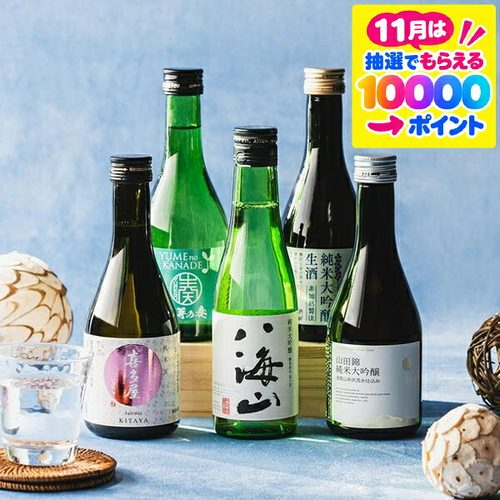
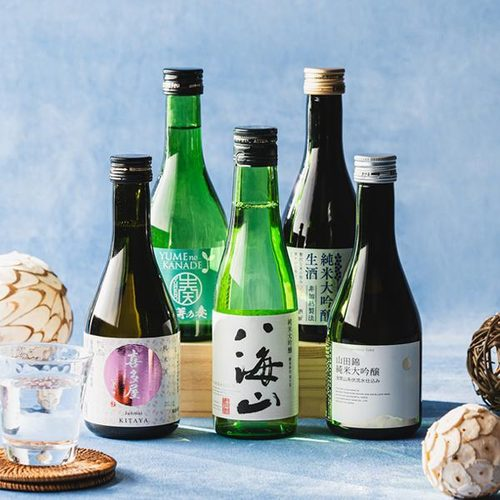
Use Dream Craft product photos (no point-campaign sticker) for original gifts
Claude-Session: https://claude.ai/code/session_01EdNj8GsPrPPmfHWohRCZyL

Changed region(s): [[0.69, 0.0, 1.0, 0.3]]

diff --git a/oseibo-2026/index.html b/oseibo-2026/index.html
@@ -798,6 +798,7 @@ header{background:#0f3b2a;border-bottom-color:#d3ab5840}
 .original .filters button:not([aria-pressed=true]){background:#fff}
 .original .grid{grid-template-columns:repeat(3,1fr);gap:20px}
 .original .product{box-shadow:0 10px 26px #00000024}
+.original .product .ph.photo{aspect-ratio:1/1}
 .original .product .ph.photo img{object-fit:cover}
 .original .stocknote{text-align:center}
 .tag.mk.orig{background:#b3121b;border-color:#b3121b}

diff --git a/oseibo-2026/README.md b/oseibo-2026/README.md
@@ -27,7 +27,7 @@
 7. **ご予算で選ぶ**：金額ボタン4つ（2,500円以下／2,500〜3,000円／3,000〜4,000円／4,000円以上）。押すと、4メーカーの該当商品が価格の安い順にボタンの下に表示されます。
    金額の区切りは `index.html` の `const bands=[...]` で変更できます。スマホ下部の固定ボタンもここへ移動します
 8. 01 サッポロ／02 アサヒ／03 キリン／04 サントリー（すべて同じ形式の商品一覧）。サッポロとサントリーは見出しの下にクーポンバナー（`img/coupon-sapporo.jpg`・`img/coupon-suntory.jpg`。画面に入ると5回揺れる）。サッポロのリンク先は未設定（`data-coupon-url=""` の a の href を差し替え、data-coupon-url を削除）
-8.5 酒のビッグボス オリジナルギフト（15商品。PCは1行3コマ・スマホ1行2コマ、種類で絞り込み。背景は白地に金の筆の払い＋麻の葉。商品データは `const originals=[...]`、画像は `img/gft-*.jpg`）
+8.5 酒のビッグボス オリジナルギフト（15商品。PCは1行3コマ・スマホ1行2コマ、種類で絞り込み。背景は白地に金の筆の払い＋麻の葉。商品データは `const originals=[...]`、画像は `img/gft-*.jpg`＝ドリームクラフトの同じ商品ページの1枚目の画像）
 9. 締め／フッター
 
 ## 商品データ
